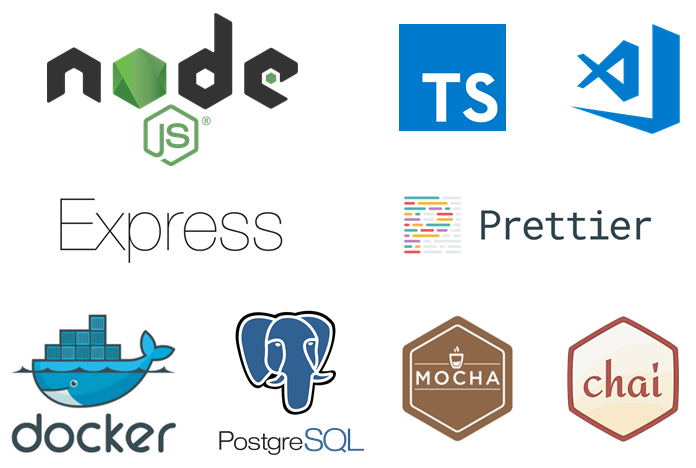
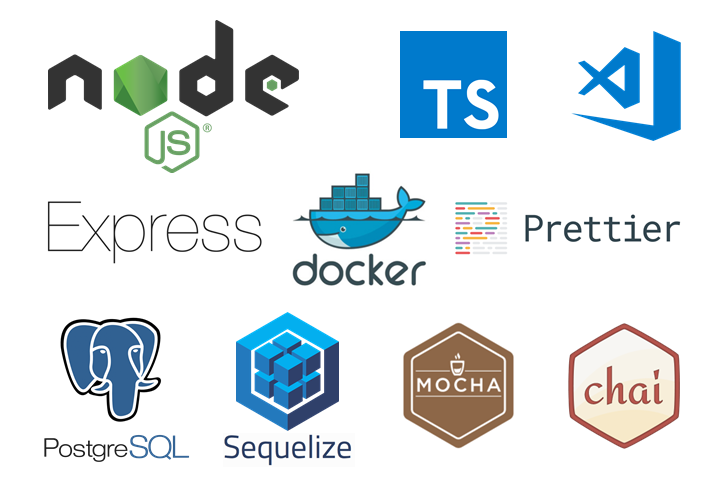
update readme file

diff --git a/src/data/messageRepository.ts b/src/data/messageRepository.ts
@@ -31,7 +31,6 @@ export const Message = sequelize.define(
     },
     created_at: {
       type: 'TIMESTAMP',
-      //defaultValue: Sequelize.literal('CURRENT_TIMESTAMP'),
       allowNull: false
     },
   },

diff --git a/README.md b/README.md
@@ -22,20 +22,25 @@ Supported actions:
     - receive messages from the broker (initiated by the broker)
         - when the broker wants to broadcast the messages to the subscribed consumers
 
+## Broker with 2 publishers and 2 subscribers
+![Use case](img/useCase.png)
+
+## Postman ([collection here](postman/broker.postman_collection.json))
+![Postman screenshot](img/postmanScreenshot.png)
+
 # Tech stack
 ![Tech Stack](img/techStack.png)
 
-### Broker with 2 publishers and 2 subscribers
-![Use case](img/useCase.png)
-
-### Postman ([collection here](postman/broker.postman_collection.json))
-![Postman screenshot](img/postmanScreenshot.png)
+## Database
+- the messages in the broker are persisted in **PostgreSQL** instance hosted on **Heroku**
+- the db contains only one table for messages (id, content, sender, created_at)
+- the data access is through [Sequelize](http://docs.sequelizejs.com/) (Node.js ORM for PostgreSQL)
 
 ## Commands
 
 To install the dependencies: ```npm install``` and to build the typescript files: ```tsc -w```
 
-To start the broker and 2 producers and 2 consumers run the following in separate terminals
+To start broker, 2 producers and 2 consumers in separate terminals run:
 
 ```bash
 npm run broker
@@ -50,12 +55,12 @@ npm run testBroker
 npm run testProducer
 npm run testConsumer
 ```
-Docker:
+### Docker:
 ```bash
 docker build -t node-broker .
 docker run -it -p 3000:3000 node-broker
 ```
-- to build the first consumer and producer
+To build the first consumer and producer:
 ```bash
 docker build -t node-first-consumer -f ./consumer/Dockerfile .
 docker build -t node-first-producer -f ./producer/Dockerfile .
